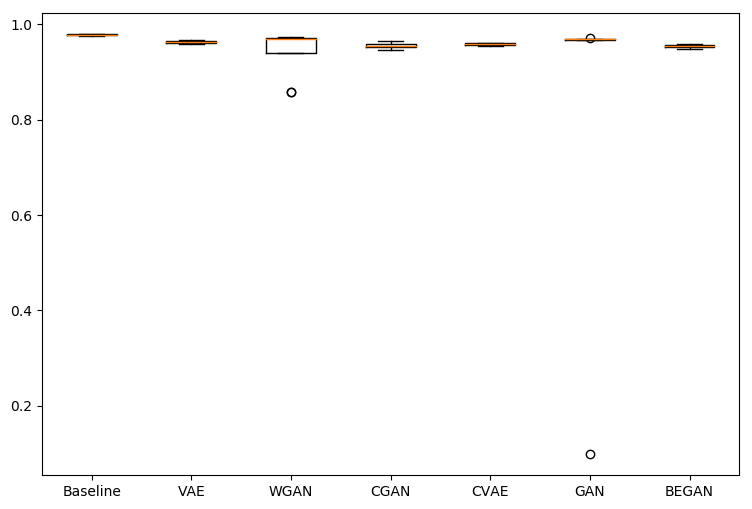
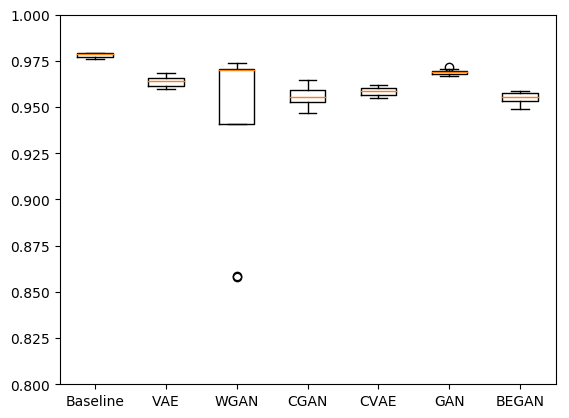
update figures and figure script

diff --git a/print_figures.py b/print_figures.py
@@ -106,6 +106,14 @@ def plot_acc_training(saveDir, dataset, model_list, baseline_all_seed, val_all_s
         plt.title('Test accuracy with differents models')
         # print(os.path.join(saveDir, dataset+'test_accuracy.png'))
 
+    if dataset == "mnist":
+        plt.ylim(0.8, 1.0)
+    elif dataset == "fashion-mnist":
+        plt.ylim(0.6, 1.0)
+    else:
+        print("Not implemented")
+        return
+
     if TrainEval:
         plt.savefig(os.path.join(saveDir, dataset + '_train_accuracy_var.png'))
     else:
@@ -135,6 +143,7 @@ def plot_acc_training(saveDir, dataset, model_list, baseline_all_seed, val_all_s
         plt.legend(loc=3, title='Model')
         plt.title('Maximum test accuracy with differents models')
 
+
     if TrainEval:
         plt.savefig(os.path.join(saveDir, dataset + '_max_train_accuracy.png'))
     else:
@@ -151,7 +160,6 @@ def plot_classes_training(save_dir, liste_num, dataset, model_name, baseline_cla
         val_model = val_classes_all_seed[indice_model]
         for i in range(len(liste_num)):
             num = liste_num[i]
-            plt.ylim(-100, 10)
             ax = plt.subplot(2, 3, indice_model + 1)
             mean_val = val_model.mean(0)
             mean_baseline = baseline_classes_all_seed.mean(0)
@@ -166,10 +174,13 @@ def plot_classes_training(save_dir, liste_num, dataset, model_name, baseline_cla
             # rects2 = ax.bar(ind + width, mean_baseline[i], width, color='r', yerr=std_baseline[i])
 
             # add some text for labels, title and axes ticks
-            ax.set_ylabel('Accuracy')
+
+            if indice_model%3 == 0:
+                ax.set_ylabel('Accuracy')
             ax.set_title(model_list[indice_model])
             ax.set_xticks(ind + width / 2)
             ax.set_xticklabels(('0', '1', '2', '3', '4', '5', '6', '7', '8', '9'))
+            plt.ylim(-70, 20)
 
             # ax.legend((rects1[0], rects2[0]), ('Generator', 'Baseline'), loc=3)
             # ax.legend(rects1[0], 'Generator', loc=3)
@@ -219,6 +230,14 @@ def print_knn(save_dir, log_dir, num, dataset, list_seed, list_model, list_tau, 
         print(val_all_seed.shape)
         print(mean_val_model.shape)
         assert mean_val_model.shape[0] == len(list_tau)
+
+        if dataset == "mnist":
+            plt.ylim(0.8, 1.0)
+        elif dataset == "fashion-mnist":
+            plt.ylim(0.6, 1.0)
+        else:
+            print("Not implemented")
+            return
 
         plt.plot(list_tau, mean_val_model, label=model, linestyle=next(style_c))
         plt.fill_between(list_tau, mean_val_model + std_val_model, mean_val_model - std_val_model, alpha=0.5)
@@ -310,12 +329,7 @@ def print_Frechet_Inception_Distance(save_dir, log_dir, num, dataset, list_seed,
 
     std_val_model = val_all_seed.std(1)
     mean_val_model = val_all_seed.mean(1)
-    max_val_model = val_all_seed.max(1)
-
-    print("ici")
-    print(std_val_model)
-
-    print(mean_val_model)
+    max_val_model = val_all_seed.min(1) # the best score is the min for FID
 
     width = 0.5  # the width of the bars
 
@@ -357,15 +371,12 @@ def comparatif(list_model, dataset, list_val_tot, FID_max, IS_max):
 
     # OURS
 
-    #score_mean=list_val_tot[:, :, 0, -1].mean(-1)
-    #score_std=list_val_tot[:, :, 0, -1].std(-1)
-
     score_max = list_val_tot[:, :, 0, -1].max(-1) # just to test
 
     # normalization for mena=0 and std=1
     score_max=(score_max-score_max.mean())/score_max.std()
 
-    rects1=plt.bar(np.array(range(len(list_model))), score_max, width, color='g')#, yerr=score_std)
+    rects1=plt.bar(np.array(range(len(list_model))), score_max, width, color='g')
 
 
     # FID
@@ -376,20 +387,20 @@ def comparatif(list_model, dataset, list_val_tot, FID_max, IS_max):
     #in FID smaller is better then we multiply it by -1 to have a scale wit "bigger is better" as the other score
     FID_max=-1*FID_max
 
-    rects2=plt.bar(np.array(range(len(list_model)))+width, FID_max, width, color='b')#, yerr=FID_std)
+    rects2=plt.bar(np.array(range(len(list_model)))+width, FID_max, width, color='b')
 
 
     # IS
-    # normalization for mena=0 and std=1
+    # normalization for mean=0 and std=1
     IS_max=(IS_max-IS_max.mean())/IS_max.std()
 
-    rects3=plt.bar(np.array(range(len(list_model)))-width, IS_max, width, color='r')#, yerr=IS_std)
+    rects3=plt.bar(np.array(range(len(list_model)))-width, IS_max, width, color='r')
     plt.xticks(range(len(list_model)), list_model)
 
 
     plt.xlabel("Models")
     plt.ylabel("Normalized results")
-    plt.legend((rects1[0], rects2[0],rects3[0]), ('Fitting Capacity', 'FID', "IS"),loc=3)
+    plt.legend((rects1[0], rects2[0],rects3[0]), ('Fitting Capacity', 'FID', "IS"), loc=3)
     plt.title('Comparison of Scores for differents models')
 
     if not os.path.exists(save_dir):
@@ -418,13 +429,10 @@ def comparatif_mean(list_model, dataset, list_val_tot, FID_mean, FID_std, IS_mea
     # FID
 
     # normalization for mena=0 and std=1
-    print(FID_std)
     FID_mean = -1 * FID_mean
     FID_mean = (FID_mean - FID_mean.mean()) / FID_mean.std()
     FID_std = (FID_std) / FID_std.std()
 
-    print("la")
-    print(FID_std)
 
     # in FID smaller is better then we multiply it by -1 to have a scale wit "bigger is better" as the other score
 
@@ -436,8 +444,6 @@ def comparatif_mean(list_model, dataset, list_val_tot, FID_mean, FID_std, IS_mea
 
     # IS
     # normalization for mena=0 and std=1
-
-    print(IS_std)
 
     IS_mean = (IS_mean - IS_mean.mean()) / IS_mean.std()
     IS_std = (IS_std) / IS_std.std()
@@ -462,6 +468,13 @@ def plot_diagram(saveDir, list_model, dataset, baseline, list_val_tot):
 
     #for i in range(len(list_model)):
     # Create a figure instance
+    if dataset == "mnist":
+        plt.ylim(0.8, 1.0)
+    elif dataset == "fashion-mnist":
+        plt.ylim(0.5, 1.0)
+    else:
+        print("Not implemented")
+        return
     fig = plt.figure(1, figsize=(9, 6))
 
     # Create an axes instance
@@ -482,6 +495,8 @@ def plot_diagram(saveDir, list_model, dataset, baseline, list_val_tot):
 
     print(['Baseline']+list_model)
     ax.set_xticklabels(['Baseline']+list_model)
+
+
 
     # Save the figure
     fig.savefig(os.path.join(saveDir, dataset + '_diagram.png'), bbox_inches='tight')
